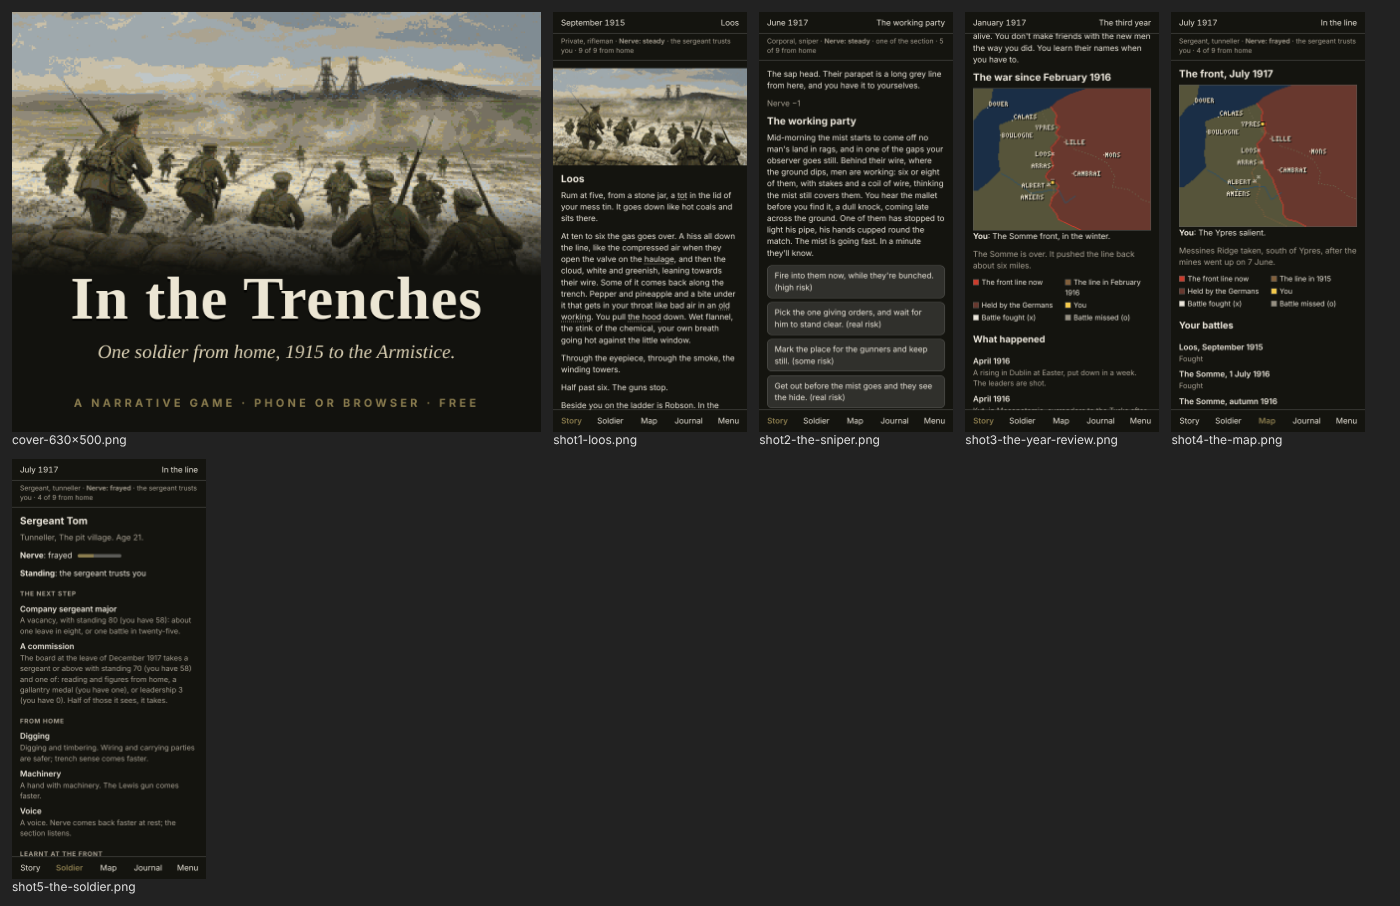
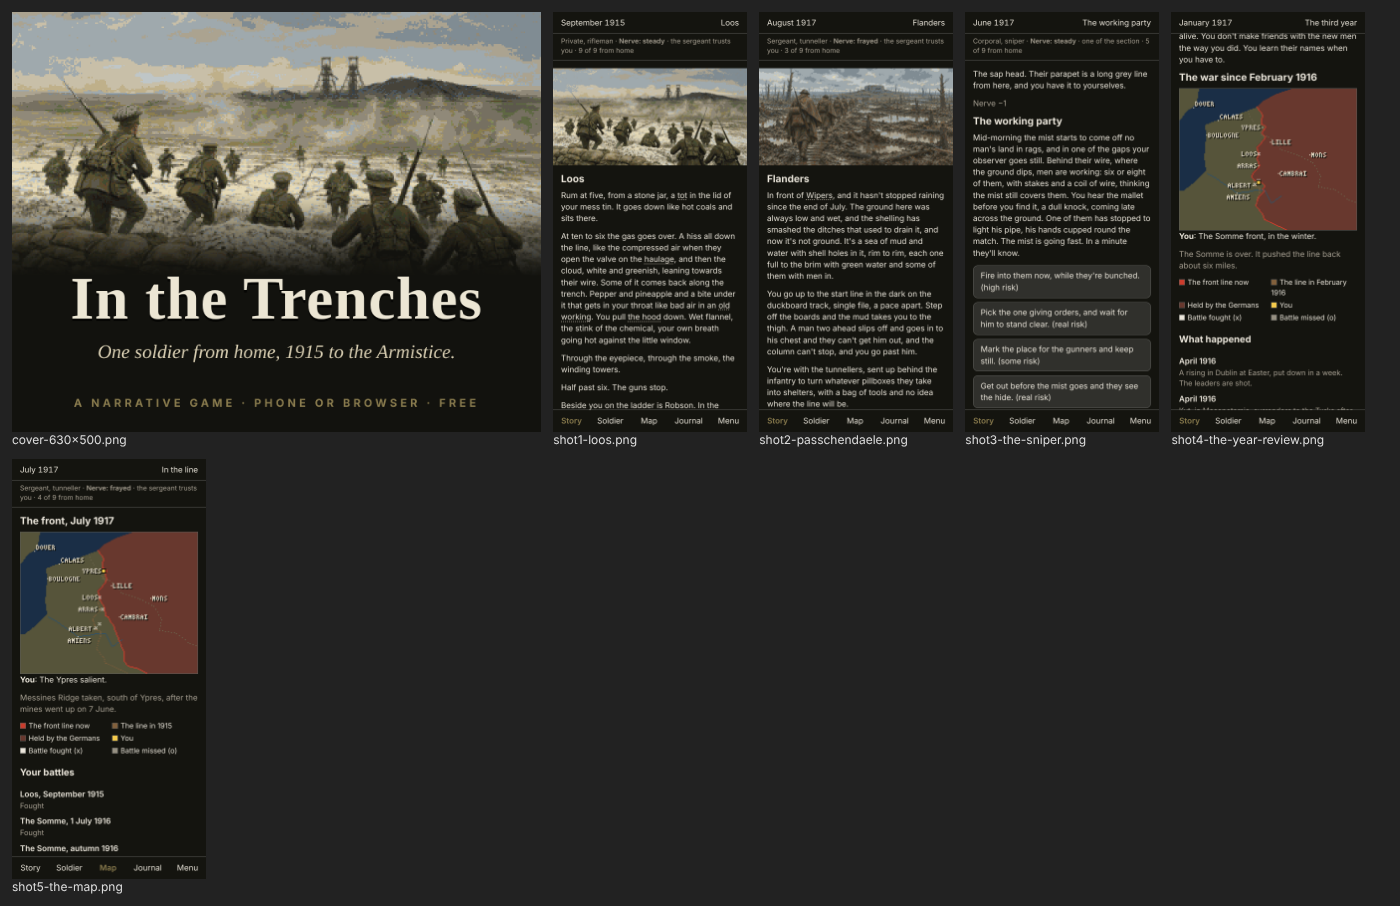
itch kit rebuilt: Passchendaele in the shots, an update path for Chrome
The author: "Update the itch release kit". The kit's steps rerun on c59070f:
- update check clean; embed 390 x 844 unchanged; pre-public clean.
- web zip 811 KB, 14 files (was 597 KB: the three new pictures).
- Shots: Loos, Passchendaele (the author's new picture), the sniper, the 1917 year review, the
  map. The Soldier tab is dropped to keep five.
- CLAUDE-IN-CHROME.txt: checks the dashboard first; if "In the Trenches" is there it edits that
  page (replacing the zip and the screenshots) instead of making a second project. Still draft only.

Claude-Session: https://claude.ai/code/session_01YKkU5gjsWdmASzkTQsxU1U

Changed region(s): [[0.5221, 0.0, 0.9829, 0.4945], [0.0, 0.5563, 0.1536, 0.989], [0.645, 0.0, 0.6757, 0.0309]]

diff --git a/docs/itch/ITCH.md b/docs/itch/ITCH.md
@@ -27,7 +27,7 @@ Every count in the copy is read out of the build, not from memory.
 | Genre | Interactive Fiction |
 | Tags | historical, war, world-war-i, interactive-fiction, text-based, narrative, choices-matter, singleplayer, pixel-art, mobile-friendly |
 | Cover | `cover-630x500.png` (check `cover-preview-315x250.png`: that is how browse listings show it) |
-| Screenshots | shot1 Loos (a battle), shot2 the sniper (a mission and its risks), shot3 the year review, shot4 the map, shot5 the soldier |
+| Screenshots | shot1 Loos (a battle), shot2 Passchendaele, shot3 the sniper (a mission and its risks), shot4 the year review, shot5 the map |
 | Links | The installable copy: https://heirsofruin.github.io/WW1/ |
 | Community | Comments on, so players can post save codes with bug reports |
 
